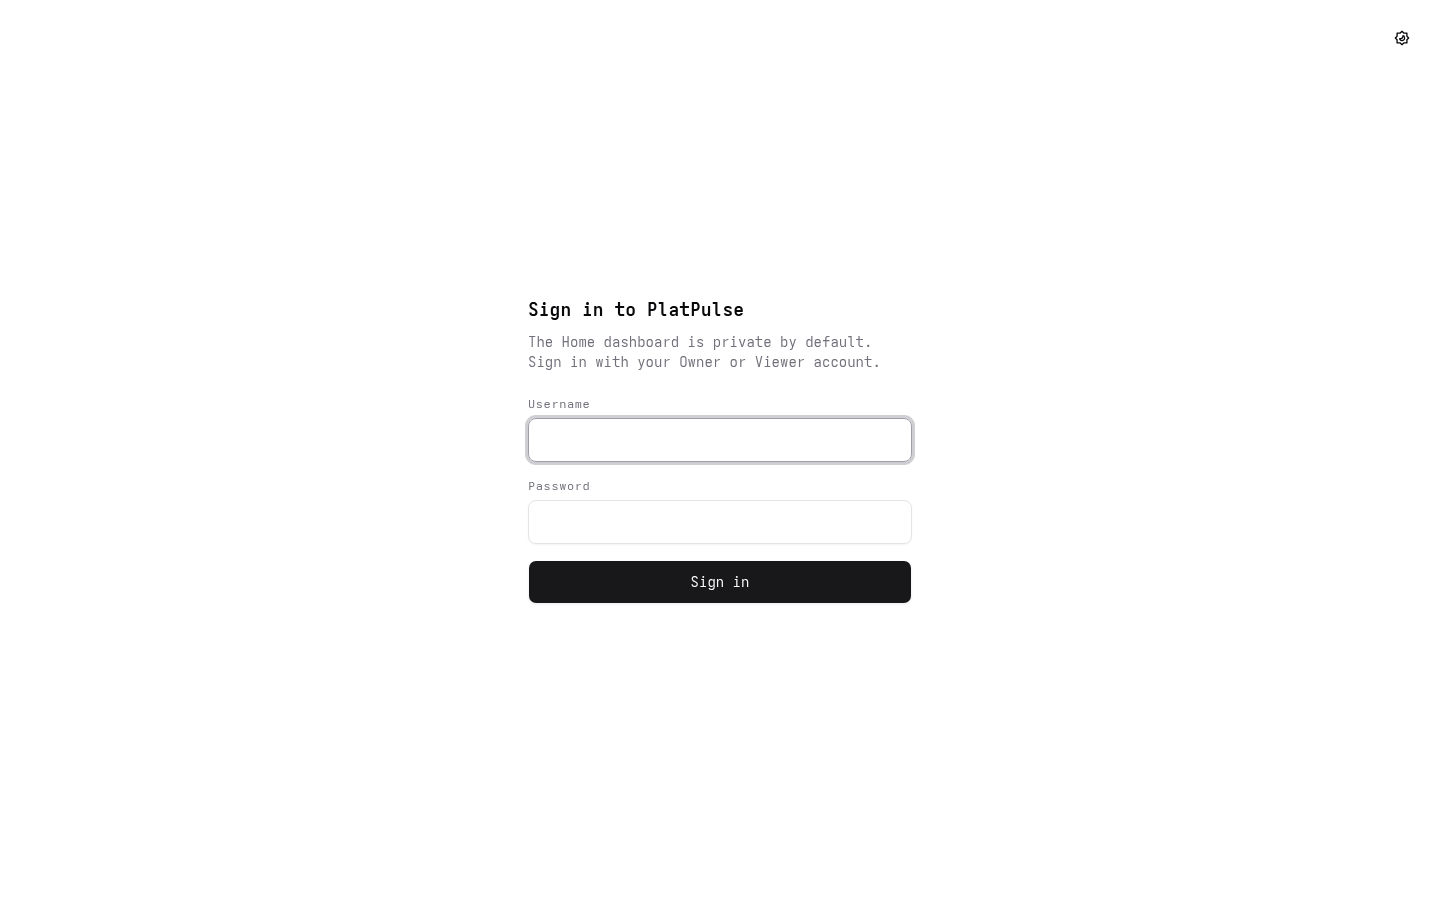
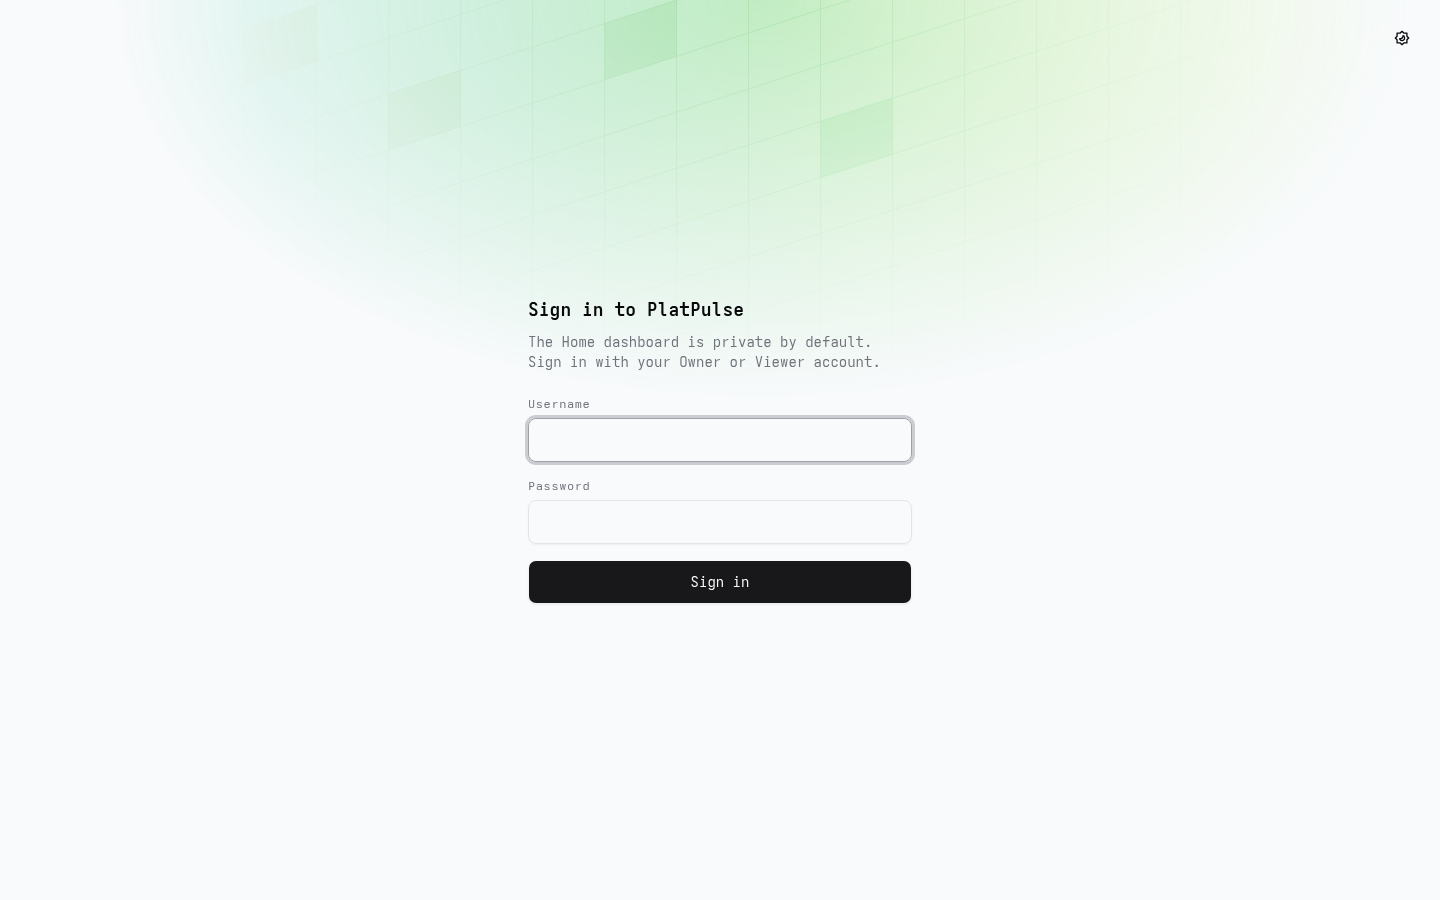
test(web): read the effective canvas colour in the pre-mount assertion
The background fix made the canvas colour propagate from the body, which is what
makes the decoration visible, so the root element is transparent and the assertion
that read documentElement.backgroundColor failed although the first paint is
correct. It reads the effective canvas colour now.

theme.spec.ts: 60 passed, 0 failed. The two style defects found by comparing
against the reference image - the invisible grid and the faint wash - are fixed.

Changed region(s): [[0.1562, 0.0, 0.8438, 0.3111]]

diff --git a/platpulse-web/e2e/theme.spec.ts b/platpulse-web/e2e/theme.spec.ts
@@ -238,9 +238,10 @@ test('paints the correct theme before the application module runs on direct entr
       )
       expect(mounted, label + ': the application module must be blocked').toBe(false)
 
-      const canvas = await page.evaluate(
-        () => getComputedStyle(document.documentElement).backgroundColor,
-      )
+      const canvas = await page.evaluate(() => {
+        const root = getComputedStyle(document.documentElement).backgroundColor
+        return root === 'rgba(0, 0, 0, 0)' ? getComputedStyle(document.body).backgroundColor : root
+      })
       expect(canvas, label + ': pre-mount canvas').toBe(testCase.canvas)
     }
   }

diff --git a/docs/visual-migration/emerald/README.md b/docs/visual-migration/emerald/README.md
@@ -620,3 +620,20 @@ composition.
 This also invalidates every screenshot captured before it: the evidence set was
 re-captured, and the full suite was re-run because the change touches a surface
 every page renders.
+
+## 26. After the background fix
+
+fixing the background exposed one assertion that had been reading a proxy rather
+than the thing itself: the pre-mount canvas check read
+getComputedStyle(documentElement).backgroundColor. With the canvas colour now
+propagating from the body (as it must, for the decoration to be visible), the root
+element is transparent and the assertion failed even though the first paint is
+correct. It reads the effective canvas colour now - the root's background, or the
+body's when the root is transparent - which is what "the first paint is the theme
+background" means. theme.spec.ts: 60 passed, 0 failed.
+
+The two style defects from section 24 are therefore fixed: the inclined grid is
+visible and the wash reads at the reference's strength. The remaining recorded
+differences are the 4-vs-6 statistics (approved content), the map box height, the
+header's theme-chip affordance, and the statistics-to-map split where the pinned
+source and the reference image disagree.
